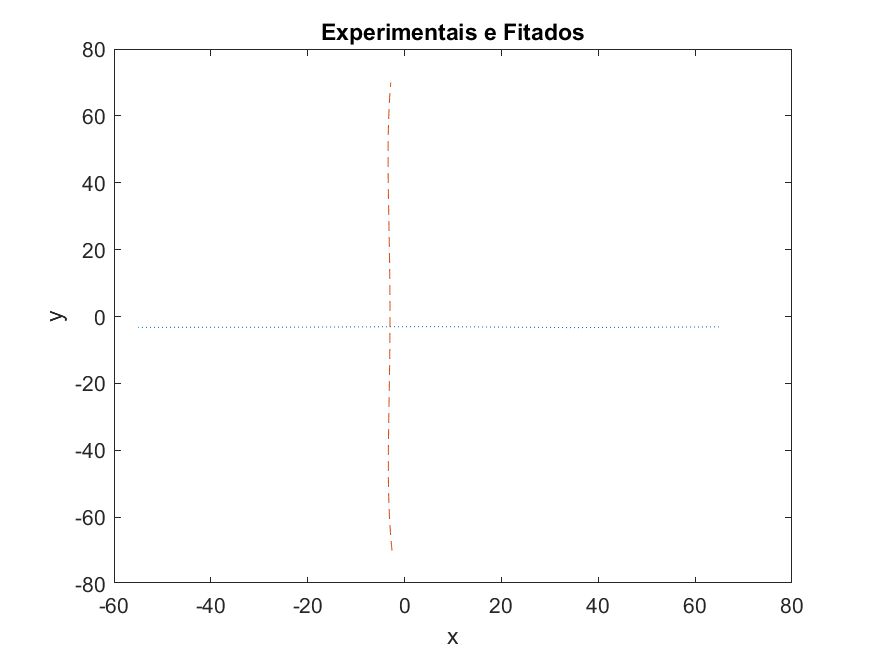
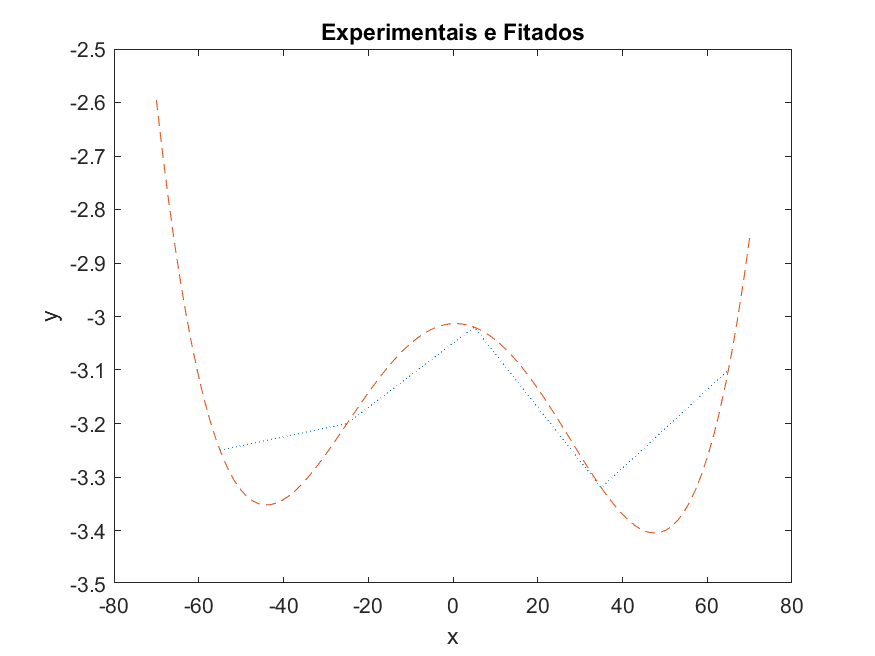
Invert order of axis on plot from question 16

diff --git a/16/Question_16.m b/16/Question_16.m
@@ -12,7 +12,7 @@ p = linspace(-70, 70, 100);
 v = polyval(c, p);
 
 % d) Plot
-chart = plot(x, y, ':',  v, p, '--');
+chart = plot(x, y, ':',  p, v, '--');
 title('Experimentais e Fitados');
 xlabel('x');
 ylabel('y');
